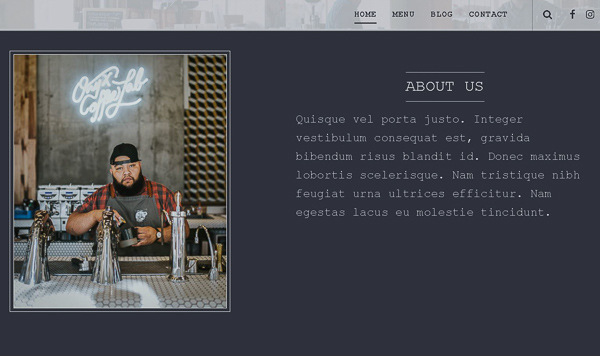
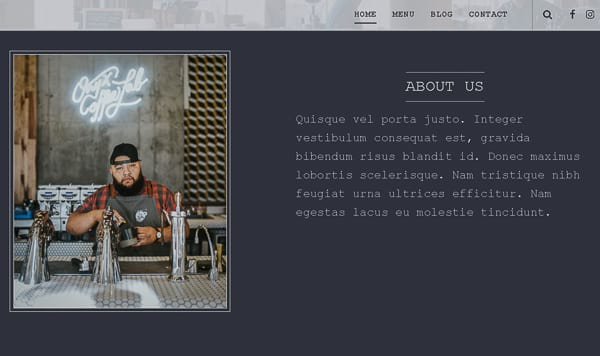
imgs resized

diff --git a/index.html b/index.html
@@ -222,7 +222,9 @@
                         <br>
                         <a href="http://columbiaviolinstudio.com" target="_blank" title="visit Yoon Kim's website">ColumbiaViolinStudio.com</a>
                     </figcaption>
+                    <div>
                     <a href="work.html" title="go to goroh's portfolio"><img src="img/test-pic.jpg" alt="" class="test-pic"></a>
+                    </div>
                 </figure>
             </div>
         </div>

diff --git a/js/script.js b/js/script.js
@@ -62,8 +62,8 @@ $(window).on('scroll', function() {checkScroll()});
 
 function checkScroll() {
     if ($(window).scrollTop() > 900) {
-        $('.scroll__top').fadeIn(700);
+        $('.scroll__top').fadeIn(1000);
     } else {
-        $('.scroll__top').fadeOut(500);
+        $('.scroll__top').fadeOut(700);
     }
 }

diff --git a/about.html b/about.html
@@ -222,10 +222,7 @@
     <script src="js/jquery-3.2.1.min.js"></script>
     <script src="js/script.js"></script>
     <script src="js/aos.js"></script>
-    <script>
-        AOS.init({
-            duration: 1000
-        });
+    <script>AOS.init({duration: 1000});
     </script>
 
 </body>

diff --git a/css/style.css b/css/style.css
@@ -181,7 +181,7 @@ header:after {
     padding: 5px;
     margin: 5px;
     width: auto;
-    border: 1.3px solid #507274;
+    border: 1.2px solid #507274;
 }
 @keyframes bounce {
     0%,
